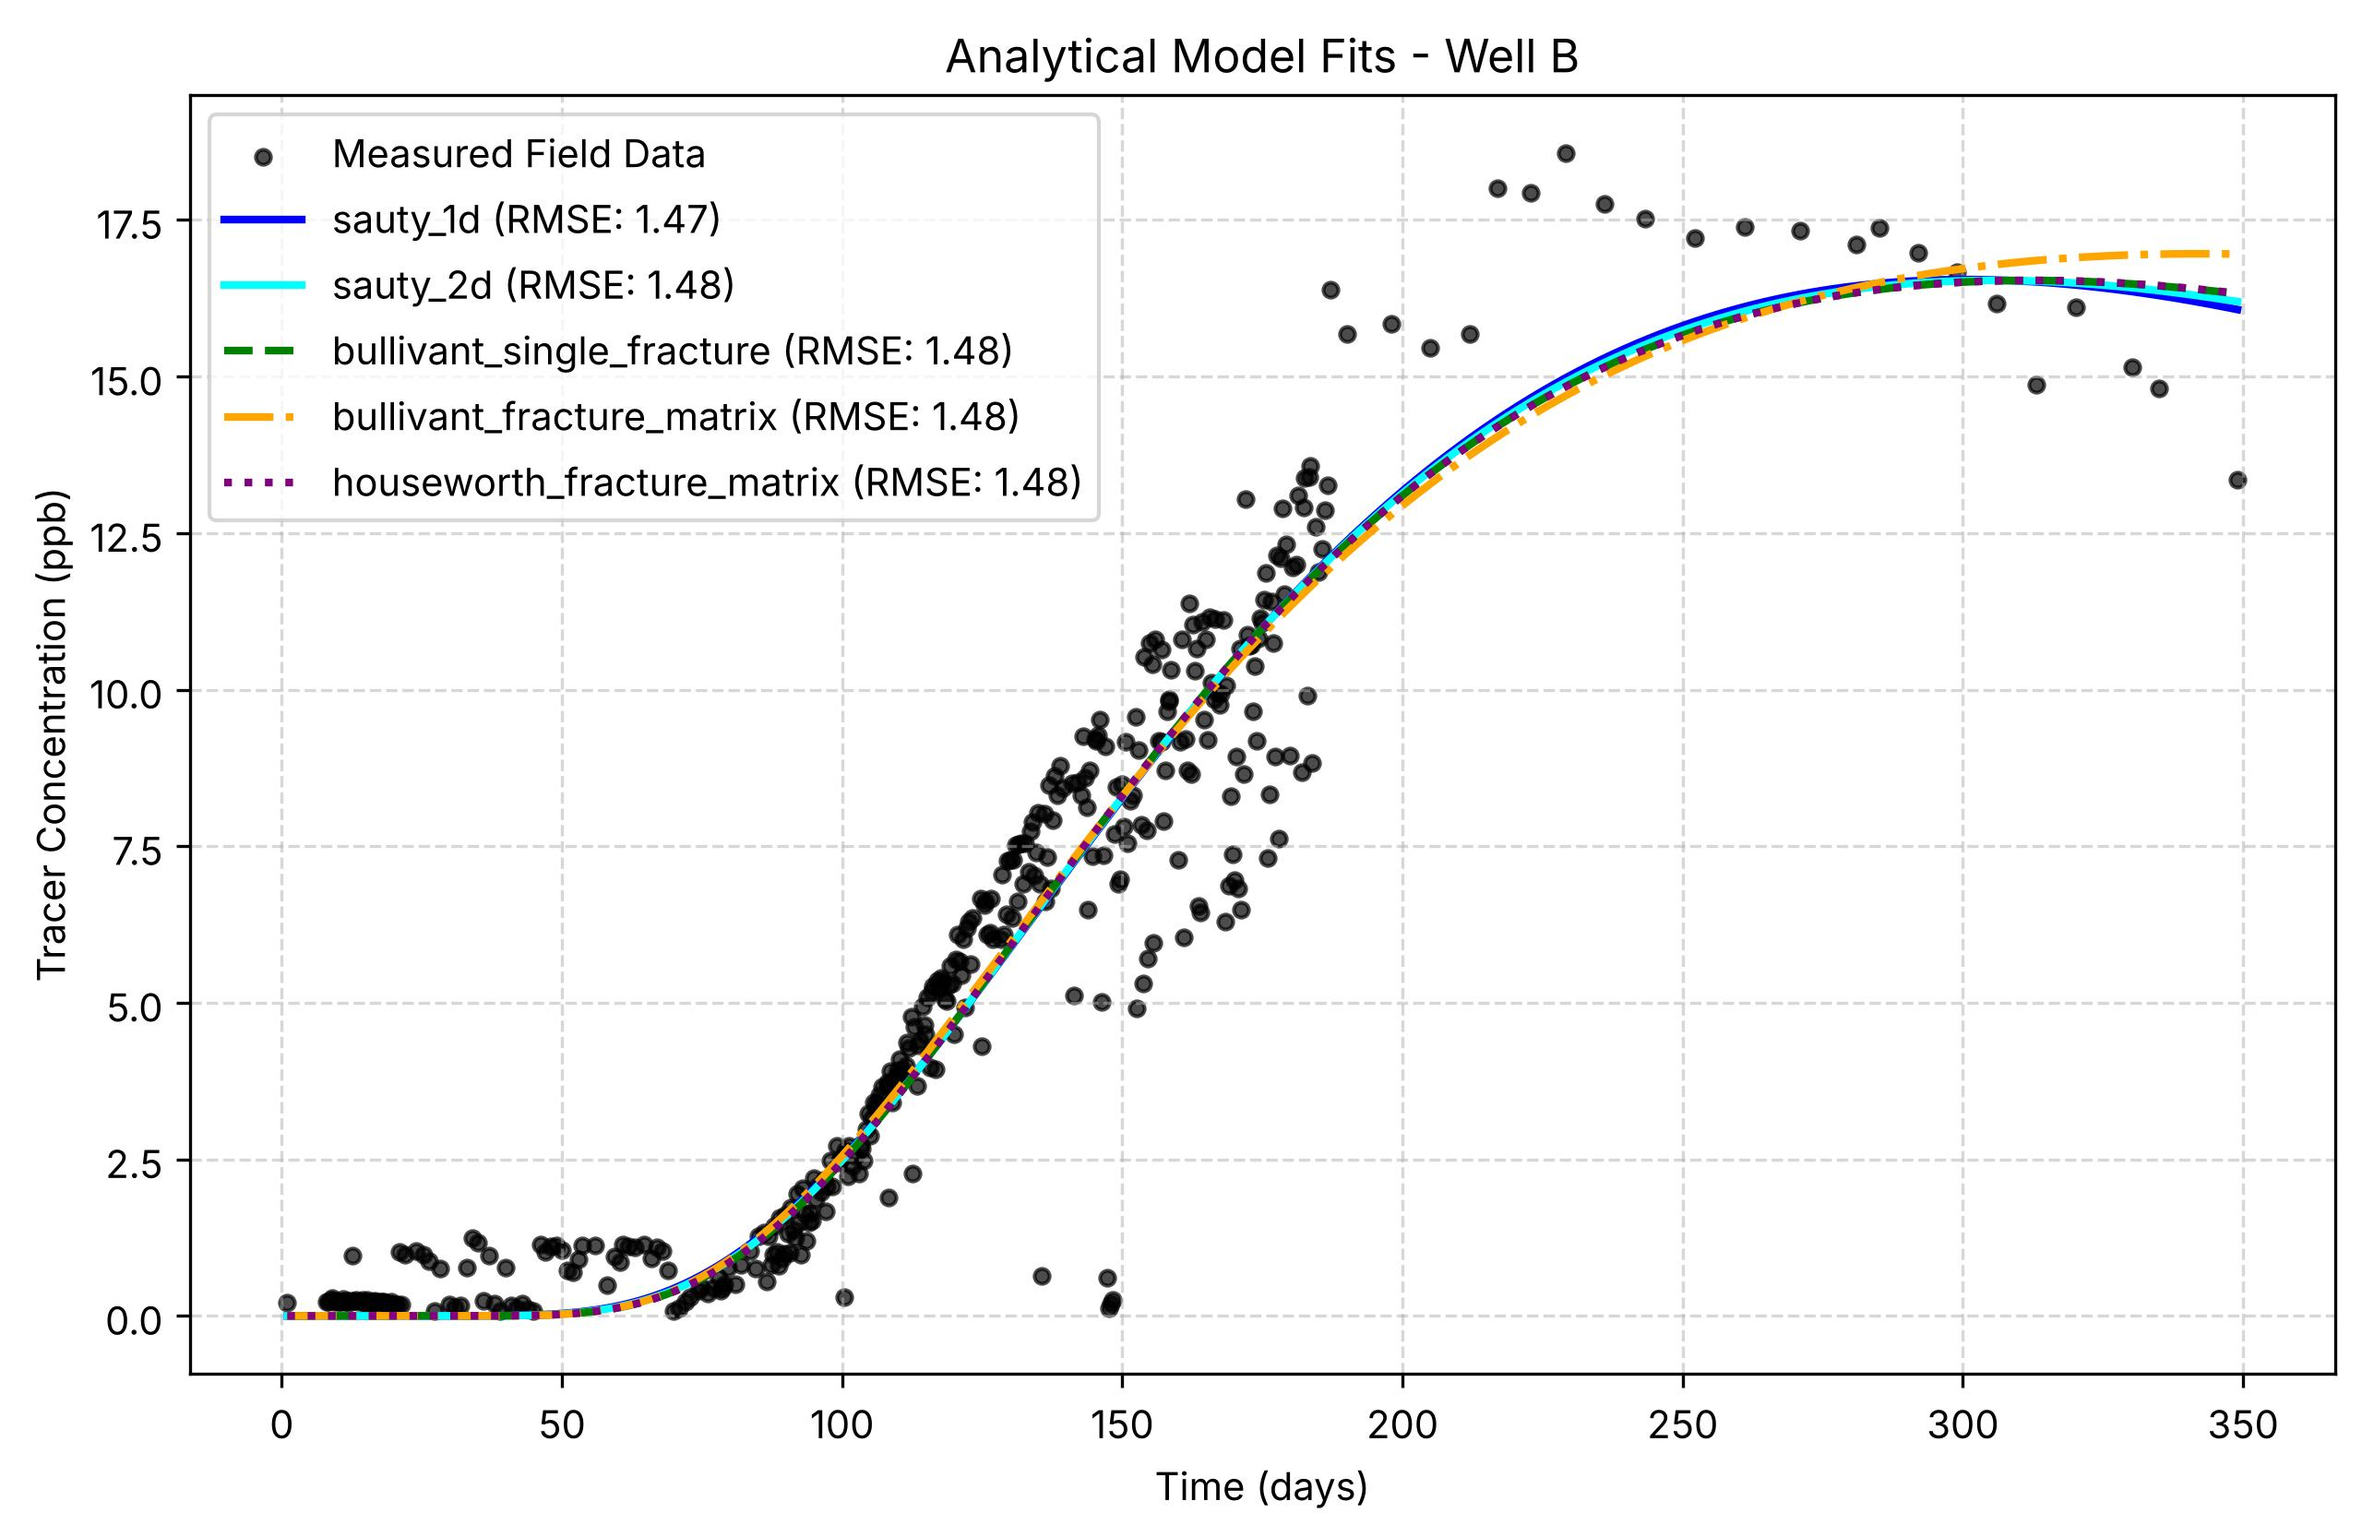
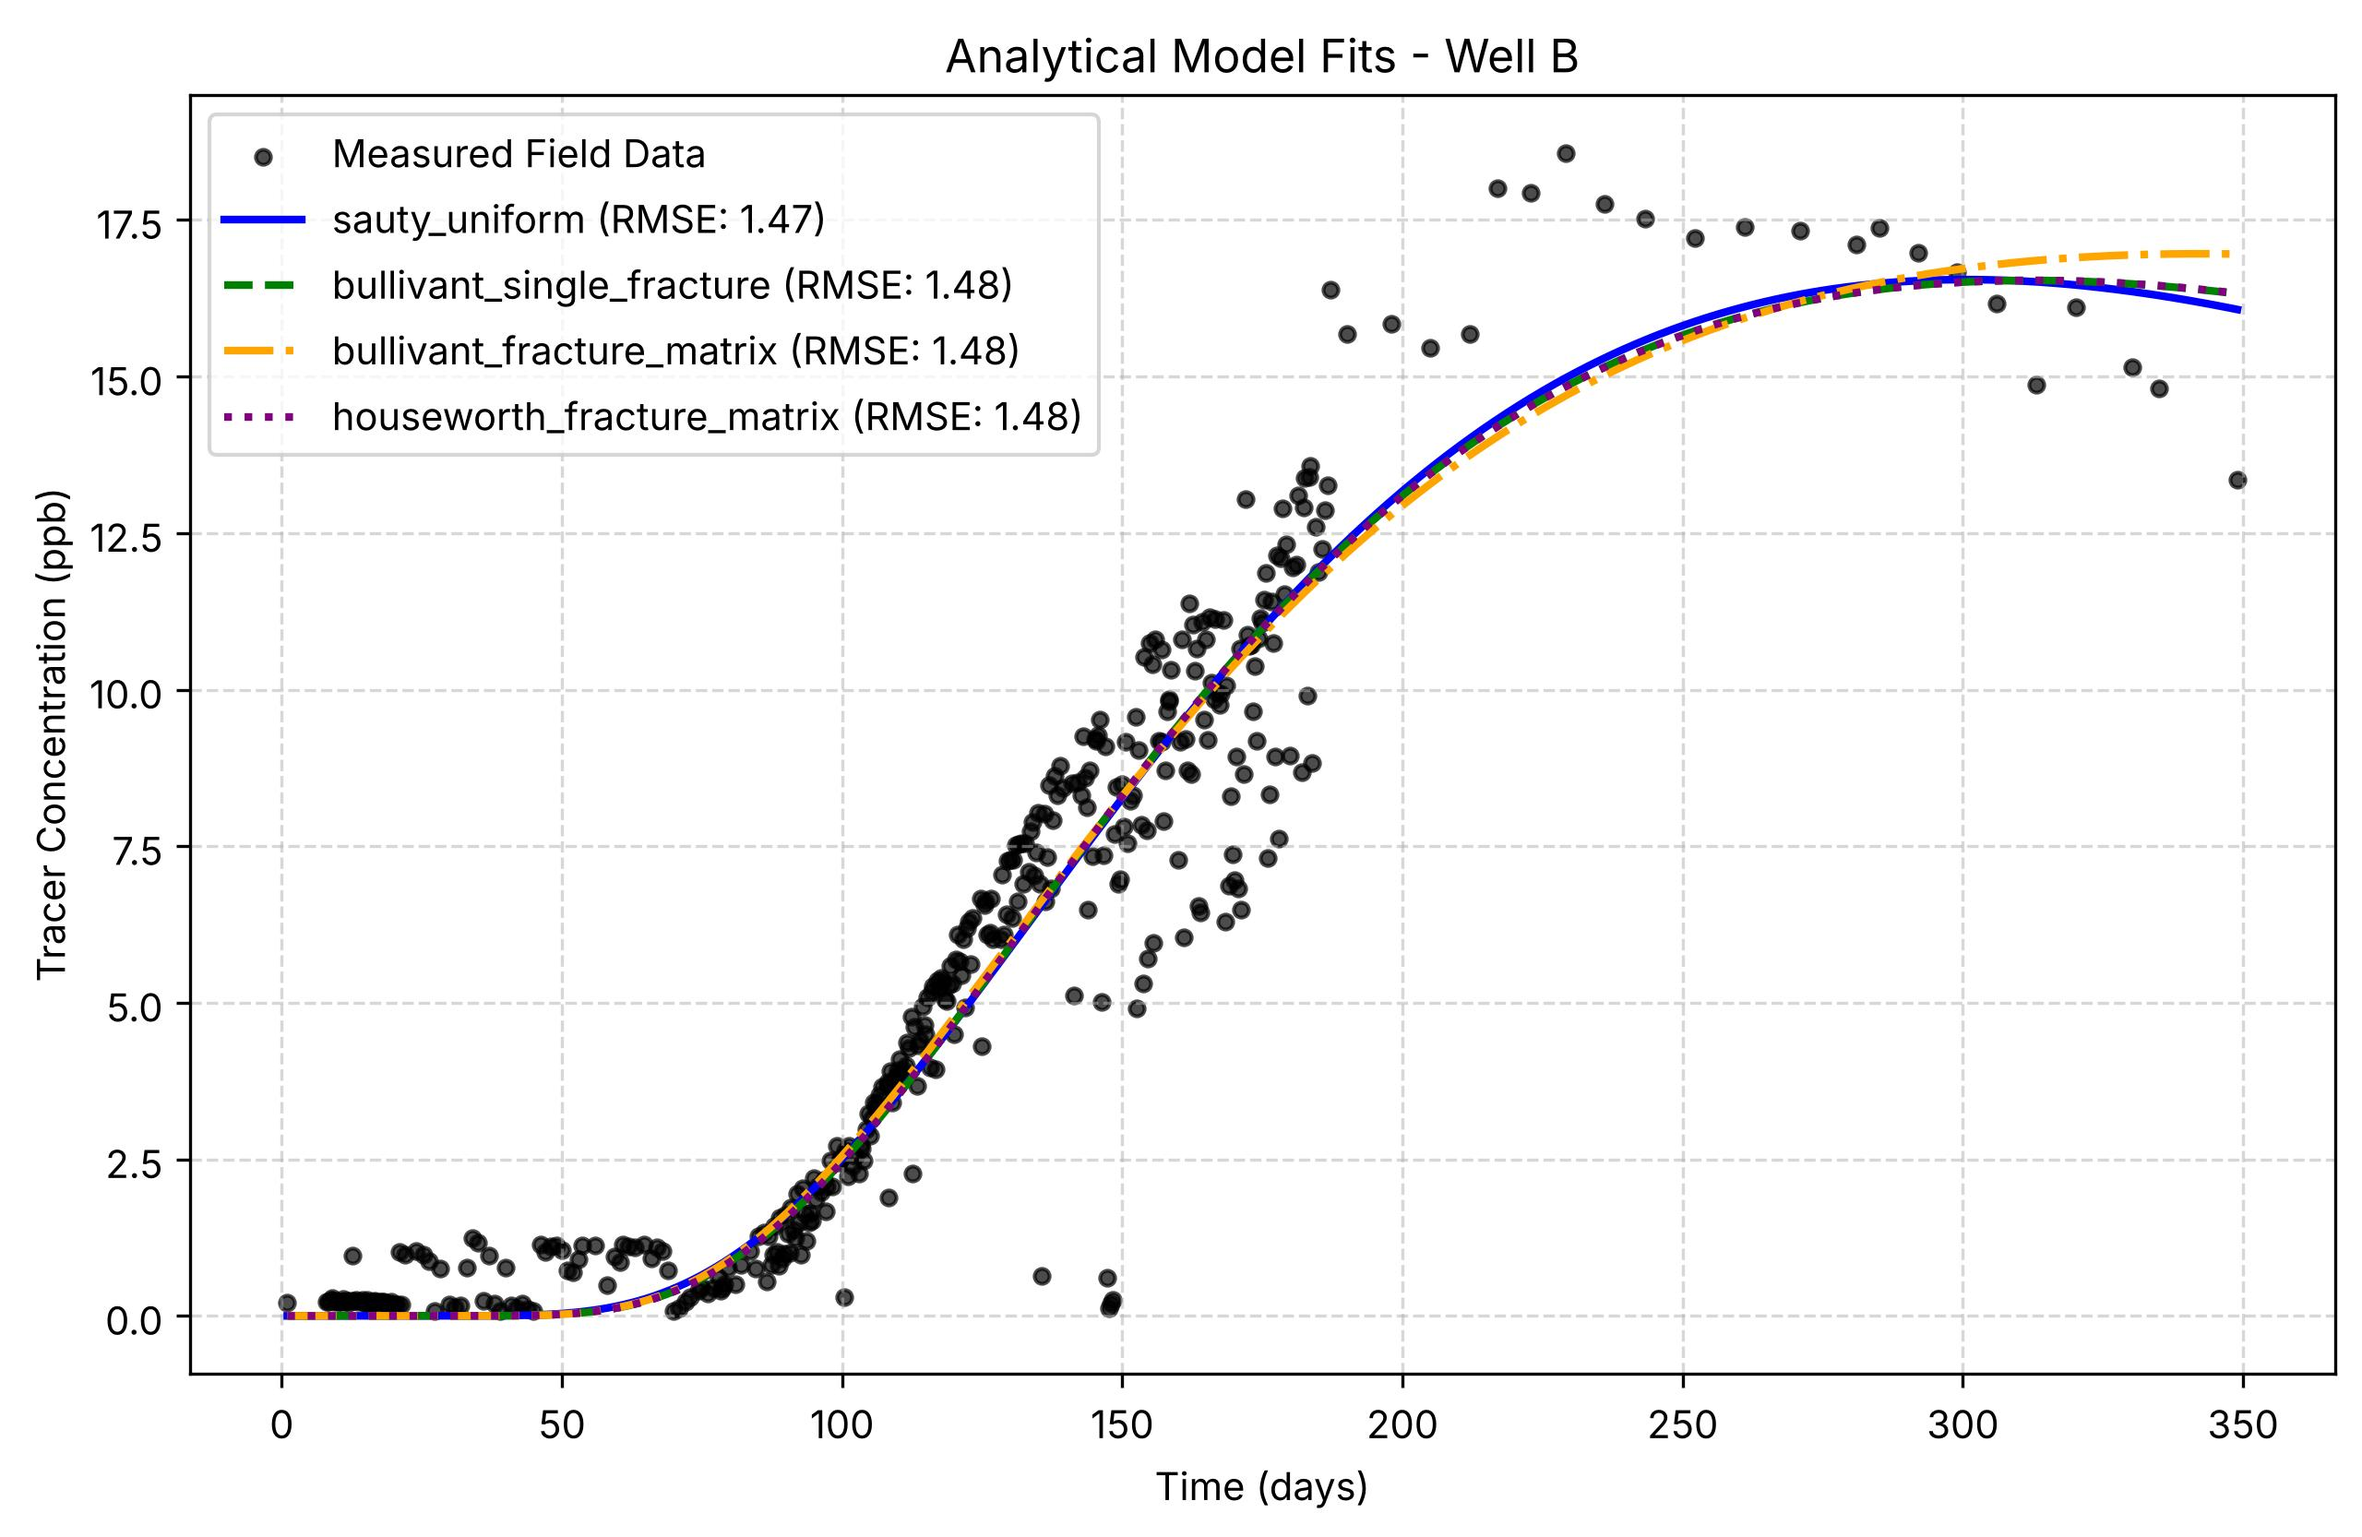
Replace sauty_1d and sauty_2d with a single sauty_uniform model
Keeps Sauty (1980) Eq. 19-21 (slug injection, uniform flow).

Claude-Session: https://claude.ai/code/session_012rciNb3RLQHPSk3zMHuk9z

diff --git a/tracer_model.py b/tracer_model.py
@@ -20,8 +20,7 @@ WELL_PARAMS = {
 
 # Plot style per model: (color, linestyle)
 MODEL_STYLES = {
-    "sauty_1d": ("blue", "-"),
-    "sauty_2d": ("cyan", "-"),
+    "sauty_uniform": ("blue", "-"),
     "bullivant_single_fracture": ("green", "--"),
     "bullivant_fracture_matrix": ("orange", "-."),
     "houseworth_fracture_matrix": ("purple", ":"),
@@ -59,8 +58,8 @@ def main():
 # the paper's Eq. 57).
 
 
-def sauty_1d(t, t_c, Pe, C_max):
-    """Sauty (1980) Eq. 19-21: slug injection, 1D uniform flow.
+def sauty_uniform(t, t_c, Pe, C_max):
+    """Sauty (1980) Eq. 19-21: slug injection, uniform flow.
 
     t_c = X/u: convective travel time (days)
     Pe = X/alpha_L: longitudinal Peclet number
@@ -73,22 +72,6 @@ def sauty_1d(t, t_c, Pe, C_max):
     K = np.sqrt(t_Rmax) * np.exp(Pe / (4 * t_Rmax) * (1 - t_Rmax) ** 2)  # Eq. 20
 
     C_R = K / np.sqrt(t_R) * np.exp(-Pe / (4 * t_R) * (1 - t_R) ** 2)  # Eq. 19
-    return np.nan_to_num(C_R * C_max)
-
-
-def sauty_2d(t, t_c, Pe, C_max):
-    """Sauty (1980) Eq. 42-44: slug injection, 2D uniform flow, on the flow axis.
-
-    Same parameters as sauty_1d. Includes transverse spreading, so the
-    response decays as 1/t_R instead of 1/sqrt(t_R).
-    """
-    t = np.asarray(t, dtype=float)
-    t_R = np.where(t > 0, t, np.nan) / t_c
-
-    t_Rmax = np.sqrt(1 + 4 * Pe ** (-2)) - 2 / Pe  # Eq. 44
-    K = t_Rmax * np.exp(Pe * (1 - t_Rmax) ** 2 / (4 * t_Rmax))  # Eq. 43
-
-    C_R = K / t_R * np.exp(-Pe * (1 - t_R) ** 2 / (4 * t_R))  # Eq. 42
     return np.nan_to_num(C_R * C_max)
 
 
@@ -176,12 +159,8 @@ def fit_analytical_models(t_obs, C_obs):
     # model name: (function, parameter names, shape p0, lower, upper)
     # The last parameter is the amplitude; its p0 and bounds are set below.
     models_config = {
-        "sauty_1d": (
-            sauty_1d, ["t_c", "Pe", "C_max"],
-            [t_peak, 10.0], [0.01, 0.01], [10 * t_max, 1e4],
-        ),
-        "sauty_2d": (
-            sauty_2d, ["t_c", "Pe", "C_max"],
+        "sauty_uniform": (
+            sauty_uniform, ["t_c", "Pe", "C_max"],
             [t_peak, 10.0], [0.01, 0.01], [10 * t_max, 1e4],
         ),
         "bullivant_single_fracture": (
